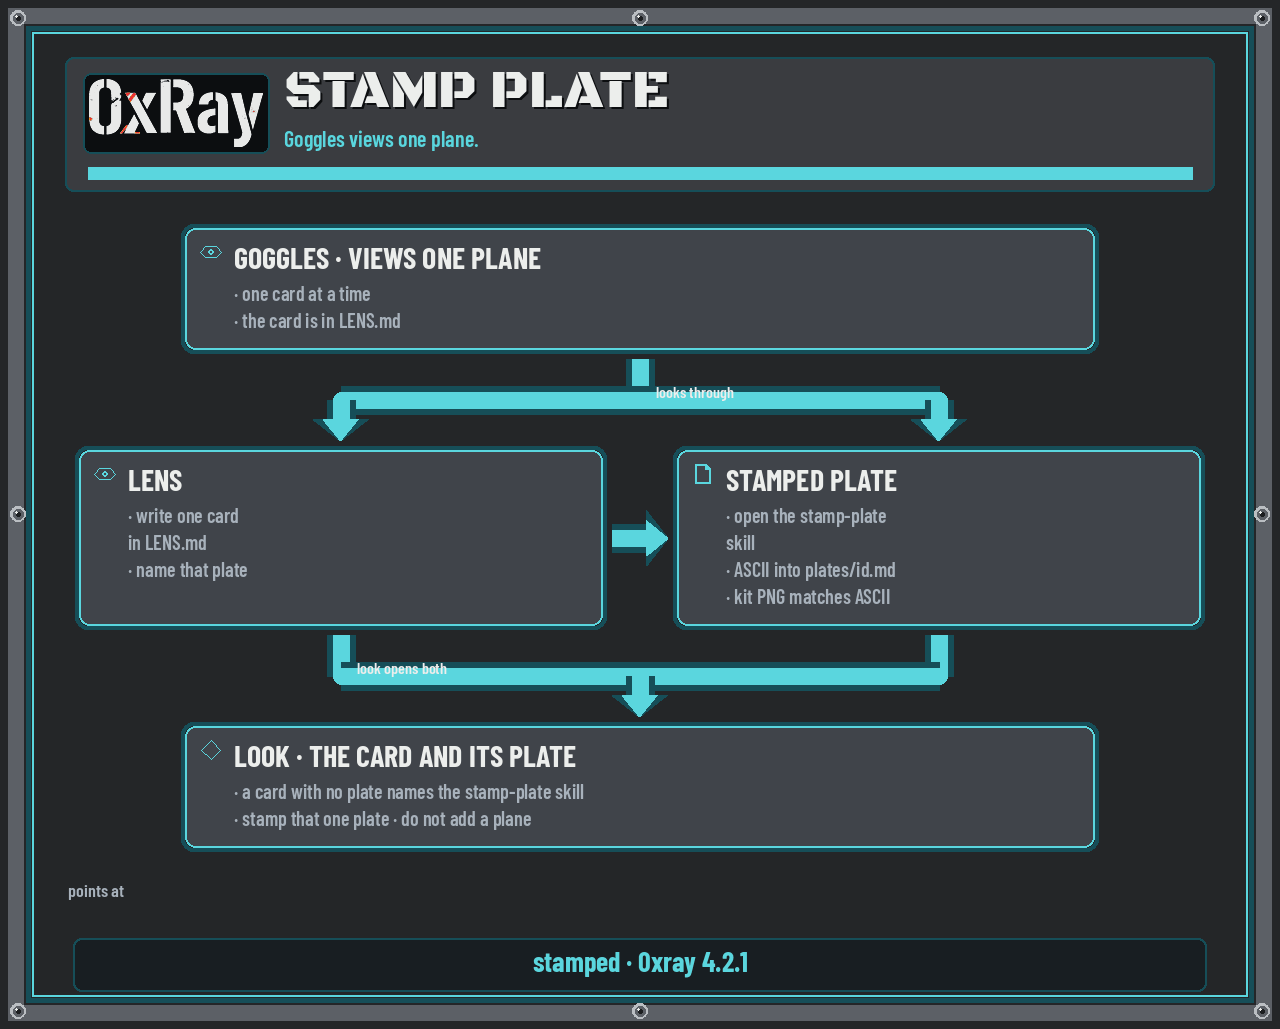
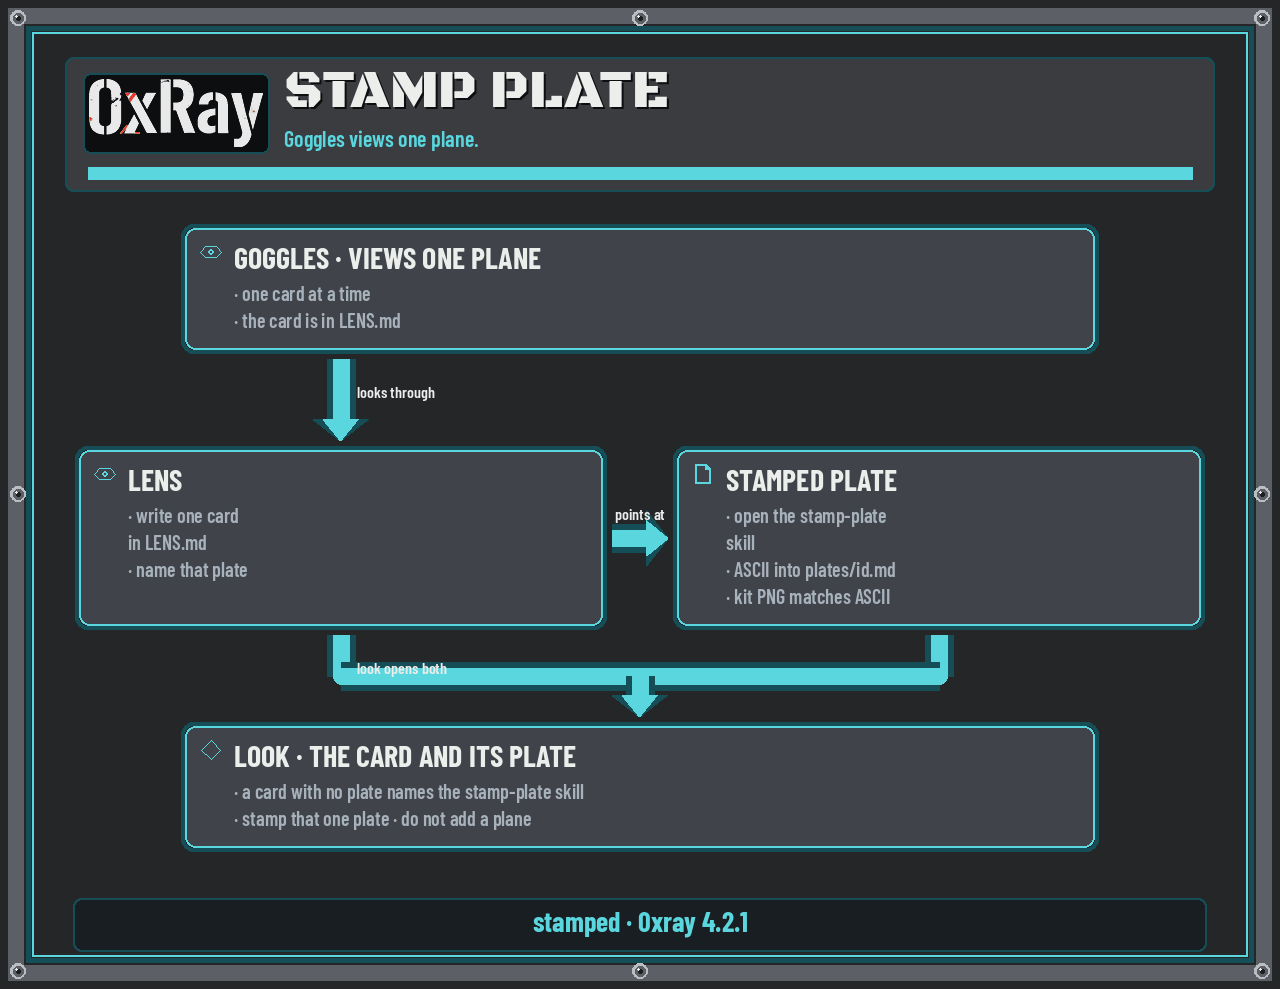
fix(plates): stamp-plate kit edges match piping
Align looks-through over LENS, attach points-at to the horizontal rail,
and drop a 1-to-1 descent on its target so the kit PNG matches the markdown.

diff --git a/src/__tests__/unit/plate-flow.ts b/src/__tests__/unit/plate-flow.ts
@@ -428,14 +428,22 @@ export function parsePlateFlow(lines: string[]): PlateFlow {
       const b = ordered[i + 1];
       if (!a || !b) continue;
       let linked = false;
+      const labels: string[] = [];
       for (let r = Math.max(a.top, b.top); r <= Math.min(a.bot, b.bot); r += 1) {
         const seg = (lines[r] ?? '').slice(a.right + 1, b.left);
-        if (seg.includes('─') || seg.includes('→')) linked = true;
+        if (seg.includes('─') || seg.includes('→') || seg.includes('►')) linked = true;
+        const text = [...seg]
+          .map((ch) => (BOX_CHARS.has(ch) || '→►◀◄'.includes(ch) ? ' ' : ch))
+          .join('')
+          .split(/\s+/)
+          .filter(Boolean)
+          .join(' ');
+        if (text) labels.push(text);
       }
       if (linked) {
         const from = index.get(a);
         const to = index.get(b);
-        if (from && to) raw.push([from, to, '']);
+        if (from && to) raw.push([from, to, labels.join(' ')]);
       }
     }
   }
@@ -470,6 +478,9 @@ export function parsePlateFlow(lines: string[]): PlateFlow {
     const hi = Math.max(sbox.bot, dbox.top);
     for (let r = lo + 1; r < hi; r += 1) labelRows.add(r);
     if (dst[0] < src[0]) for (let r = dbox.top; r <= sbox.bot; r += 1) labelRows.add(r);
+    if (dst[0] === src[0]) {
+      for (let r = Math.max(sbox.top, dbox.top); r <= Math.min(sbox.bot, dbox.bot); r += 1) labelRows.add(r);
+    }
   }
 
   const notes: string[] = [];

diff --git a/grok-bot/skills/draw-stamped-card/recipes/layered-flow/render.py b/grok-bot/skills/draw-stamped-card/recipes/layered-flow/render.py
@@ -1001,9 +1001,19 @@ def draw_flow_arrows(img: Image.Image, flow: dict, bands: list[dict], font: Imag
         key = (src["layer"], src["row"], dst["layer"], dst["row"], edge["label"])
         groups.setdefault(key, []).append((src, dst))
     inset = layout_num("arrowInset")
-    for (src, dst, _label) in horizontal:
+    for (src, dst, label) in horizontal:
         y = (src["rect"][1] + src["rect"][3]) / 2
         draw_right_arrow(img, src["rect"][2] + inset, dst["rect"][0] - inset, y)
+        if label:
+            mx = (src["rect"][2] + dst["rect"][0]) / 2
+            paint_text(
+                img,
+                (mx - run_width(label, font) / 2, y - layout_num("labelY") - font.size),
+                label,
+                font,
+                INK,
+                BARLOW_SEMI,
+            )
     for key, pairs in groups.items():
         _draw_group(img, pairs, font, key[4])
     for back in backs:
@@ -1042,6 +1052,26 @@ def _draw_group(img: Image.Image, pairs: list, font: ImageFont.FreeTypeFont, lab
                 draw_down_arrow(img, x1, mid, y1 - pad)
                 place_junction(img, x0, mid)
                 place_junction(img, x1, mid)
+        return
+    if len(sources) == 1 and len(targets) == 1:
+        src, dst = sources[0], targets[0]
+        x0, y0 = center_bottom(src["rect"])
+        x1, y1 = center_top(dst["rect"])
+        under = src["rect"][0] < x1 < src["rect"][2]
+        if under or abs(x0 - x1) < slack:
+            drop_x = x1 if under else x0
+            draw_down_arrow(img, drop_x, y0 + pad, y1 - pad)
+            if label:
+                paint_text(img, (drop_x + lx, (y0 + y1) / 2 - ly), label, font, INK, BARLOW_SEMI)
+            return
+        mid = (y0 + y1) / 2
+        draw_stem(img, x0, y0 + pad, mid)
+        draw_bar(img, x0, x1, mid)
+        draw_down_arrow(img, x1, mid, y1 - pad)
+        place_junction(img, x0, mid)
+        place_junction(img, x1, mid)
+        if label:
+            paint_text(img, ((x0 + x1) / 2 - run_width(label, font) / 2, mid - ly), label, font, INK, BARLOW_SEMI)
         return
     bottoms = [center_bottom(card["rect"]) for card in sources]
     tops = [center_top(card["rect"]) for card in targets]

diff --git a/grok-bot/skills/draw-stamped-card/recipes/layered-flow/flow.py b/grok-bot/skills/draw-stamped-card/recipes/layered-flow/flow.py
@@ -289,12 +289,21 @@ def pick_targets(
     return uniq
 
 
-def horizontal_label_free(lines: list[str], a: Box, b: Box) -> bool:
+def horizontal_edge_label(lines: list[str], a: Box, b: Box) -> str | None:
+    found_rail = False
+    labels: list[str] = []
     for r in range(max(a.top, b.top), min(a.bot, b.bot) + 1):
-        seg = lines[r][a.right + 1:b.left]
-        if "─" in seg or "→" in seg:
-            return True
-    return False
+        line = lines[r] if r < len(lines) else ""
+        seg = line[a.right + 1:b.left]
+        if "─" in seg or "→" in seg or "►" in seg:
+            found_rail = True
+        chars = [" " if ch in BOX_CHARS or ch in "→►◀◄" else ch for ch in seg]
+        text = " ".join("".join(chars).split())
+        if text:
+            labels.append(text)
+    if not found_rail:
+        return None
+    return " ".join(labels)
 
 
 def outside_text(lines: list[str], boxes: list[Box], r: int) -> list[str]:
@@ -470,8 +479,9 @@ def parse_flow(lines: list[str]) -> dict:
     for row_nodes in _rows_of(leaves, index):
         ordered = sorted(row_nodes, key=lambda n: n.left)
         for a, b in zip(ordered, ordered[1:]):
-            if horizontal_label_free(lines, a, b):
-                raw.append((index[a], index[b], ""))
+            label = horizontal_edge_label(lines, a, b)
+            if label is not None:
+                raw.append((index[a], index[b], label))
 
     for source, target, label in back_edges(lines, boxes, leaves):
         if source in index and target in index:
@@ -506,6 +516,9 @@ def parse_flow(lines: list[str]) -> dict:
             label_rows.add(r)
         if dst[0] < src[0]:
             for r in range(dbox.top, sbox.bot + 1):
+                label_rows.add(r)
+        if dst[0] == src[0]:
+            for r in range(max(sbox.top, dbox.top), min(sbox.bot, dbox.bot) + 1):
                 label_rows.add(r)
 
     notes: list[str] = []

diff --git a/docs-site/docs/plates/stamp-plate.md b/docs-site/docs/plates/stamp-plate.md
@@ -14,10 +14,10 @@ Goggles views one plane. A lens is a card that points at a plate. Look opens bot
   ├──────────────────────────────────────────────────────────────────┤
   │ · one card at a time                                             │
   │ · the card is in LENS.md                                         │
-  └────────────────────────────────┬─────────────────────────────────┘
-                                   │ looks through                    
-                                   v                                  
-  ┌──────────────────────────┐ points at ┌───────────────────────────┐
+  └─────────────┬────────────────────────────────────────────────────┘
+                │ looks through                                       
+                v                                                     
+  ┌─────────────┬────────────┐ points at ┌───────────────────────────┐
   │ LENS                     │──────────►│ STAMPED PLATE             │
   ├──────────────────────────┤           ├───────────────────────────┤
   │ · write one card         │           │ · open the stamp-plate    │
